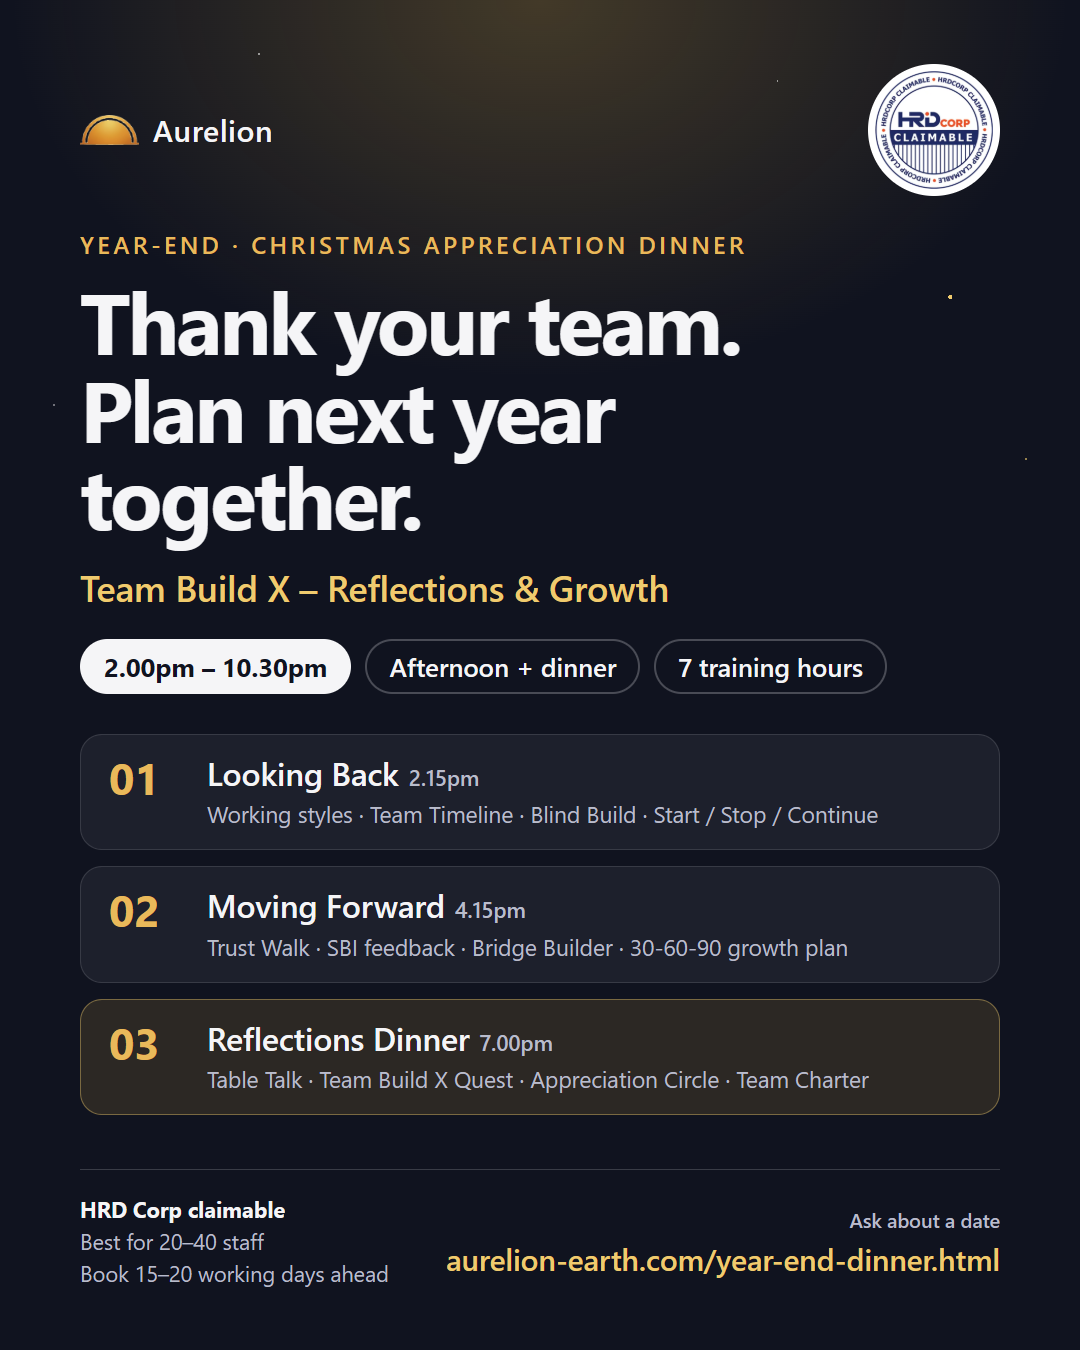
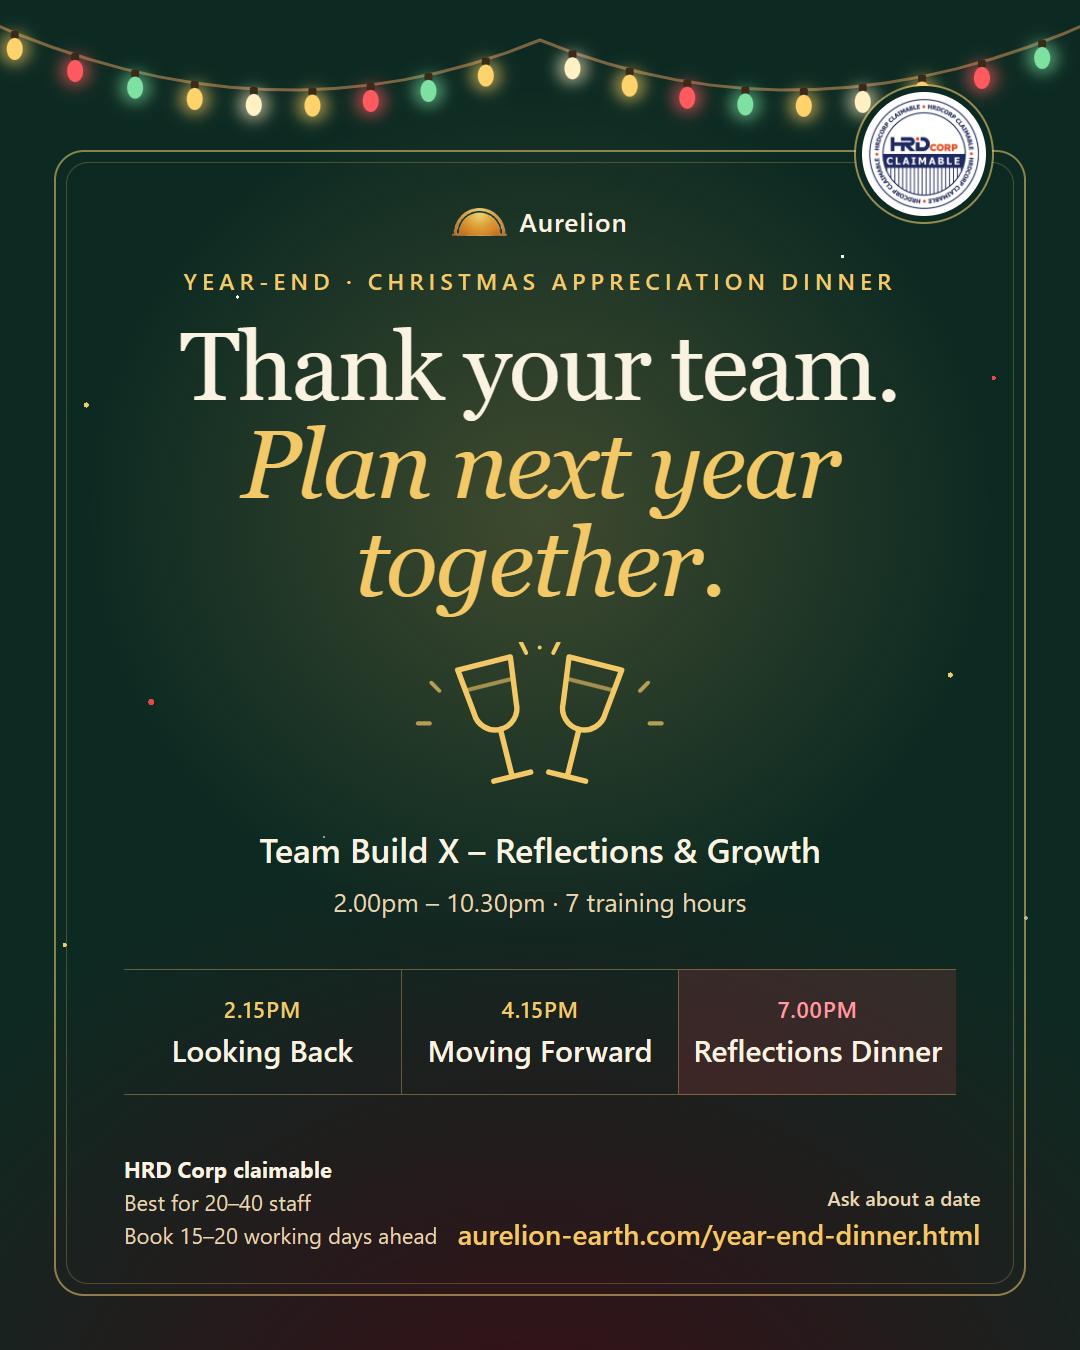
Year-end poster: festive dinner style (lights, green and gold, cheers) (#24)

diff --git a/assets/year-end-dinner-poster.html b/assets/year-end-dinner-poster.html
@@ -4,52 +4,80 @@
 <style>
 *{box-sizing:border-box;margin:0}
 html,body{width:1080px;height:1350px;overflow:hidden}
-body{font-family:"Segoe UI",-apple-system,Roboto,Arial,sans-serif;color:#f5f5f7;letter-spacing:-.01em;
-  background:radial-gradient(70% 40% at 50% 0%,rgba(212,168,67,.26),transparent 70%),#10131f;position:relative;padding:64px 80px 60px;display:flex;flex-direction:column}
+body{font-family:"Segoe UI",-apple-system,Roboto,Arial,sans-serif;color:#fbf3e2;position:relative;
+  background:radial-gradient(60% 45% at 50% 38%,rgba(240,190,90,.22),transparent 70%),radial-gradient(120% 80% at 50% 110%,#3a0d16,transparent 60%),#0d2a22}
+/* confetti + sparkles */
 body::before{content:"";position:absolute;inset:0;background:
-  radial-gradient(3px 3px at 10% 9%,#f0cb6e 50%,transparent 51%),radial-gradient(2px 2px at 24% 4%,#fff8 50%,transparent 51%),
-  radial-gradient(4px 4px at 88% 22%,#f0cb6e 50%,transparent 51%),radial-gradient(2px 2px at 72% 6%,#fff8 50%,transparent 51%),
-  radial-gradient(3px 3px at 95% 34%,#f0cb6e99 50%,transparent 51%),radial-gradient(2px 2px at 5% 30%,#fff6 50%,transparent 51%)}
-.top{display:flex;justify-content:space-between;align-items:center;position:relative}
-.brand{display:flex;align-items:center;gap:14px;font-size:30px;font-weight:600;letter-spacing:.02em}
-.brand img{height:30px}
-.badge{width:132px;height:132px;border-radius:50%;background:#fff;display:grid;place-items:center}
-.badge img{width:124px}
-.eyebrow{margin-top:32px;font-size:24px;font-weight:600;letter-spacing:.14em;text-transform:uppercase;color:#e9b95a}
-h1{margin-top:16px;font-size:86px;line-height:1.02;letter-spacing:-.035em;font-weight:700}
-.sub{margin-top:24px;font-size:36px;font-weight:600;color:#f0cb6e}
-.time{margin-top:28px;display:flex;gap:14px;flex-wrap:wrap}
-.time span{font-size:26px;font-weight:500;border:2px solid rgba(245,245,247,.25);border-radius:999px;padding:8px 22px}
-.time span:first-child{background:#f5f5f7;color:#10131f;border-color:#f5f5f7;font-weight:700}
-.mods{margin-top:40px;display:grid;gap:16px}
-.mod{display:grid;grid-template-columns:76px 1fr;gap:22px;align-items:start;background:rgba(245,245,247,.06);border:1px solid rgba(245,245,247,.12);border-radius:22px;padding:20px 28px}
-.mod .n{font-size:44px;font-weight:700;color:#e9b95a;line-height:1}
-.mod h2{font-size:32px;font-weight:600;line-height:1.1}
-.mod h2 small{font-size:22px;font-weight:500;color:#b9bccb;margin-left:10px}
-.mod p{margin-top:8px;font-size:23px;color:#b9bccb;line-height:1.35}
-.mod.d{background:rgba(212,168,67,.14);border-color:rgba(240,203,110,.4)}
-.foot{margin-top:auto;display:flex;justify-content:space-between;align-items:center;gap:24px;border-top:1px solid rgba(245,245,247,.18);padding-top:24px}
-.foot .k{white-space:nowrap;font-size:22px;color:#b9bccb;line-height:1.45}
-.foot .k b{color:#f5f5f7}
-.foot .url{white-space:nowrap;font-size:30px;font-weight:600;color:#f0cb6e;text-align:right}
-.foot .url small{display:block;font-size:20px;font-weight:500;color:#b9bccb;margin-bottom:6px}
+  radial-gradient(5px 5px at 8% 30%,#f0cb6e 50%,transparent 52%),radial-gradient(4px 4px at 92% 28%,#e8474f 50%,transparent 52%),
+  radial-gradient(6px 6px at 14% 52%,#e8474f 50%,transparent 52%),radial-gradient(5px 5px at 88% 50%,#f0cb6e 50%,transparent 52%),
+  radial-gradient(3px 3px at 22% 22%,#fff 50%,transparent 52%),radial-gradient(3px 3px at 78% 19%,#fff 50%,transparent 52%),
+  radial-gradient(4px 4px at 6% 70%,#f0cb6e 50%,transparent 52%),radial-gradient(4px 4px at 95% 68%,#fff9 50%,transparent 52%),
+  radial-gradient(3px 3px at 30% 62%,#fff8 50%,transparent 52%),radial-gradient(3px 3px at 70% 64%,#fff8 50%,transparent 52%)}
+.lights{position:absolute;top:0;left:0;width:1080px;height:170px}
+.frame{position:absolute;inset:150px 54px 54px;border:2px solid rgba(240,203,110,.55);border-radius:30px}
+.frame::after{content:"";position:absolute;inset:10px;border:1px solid rgba(240,203,110,.25);border-radius:22px}
+.in{position:absolute;inset:150px 54px 54px;padding:54px 70px 44px;display:flex;flex-direction:column;align-items:center;text-align:center}
+.badge{position:absolute;top:-58px;right:40px;width:124px;height:124px;border-radius:50%;background:#fff;display:grid;place-items:center;box-shadow:0 0 0 6px #0d2a22,0 0 0 8px rgba(240,203,110,.6)}
+.badge img{width:116px}
+.brand{display:flex;align-items:center;gap:12px;font-size:26px;font-weight:600;letter-spacing:.04em}
+.brand img{height:28px}
+.eyebrow{margin-top:26px;font-size:23px;font-weight:600;letter-spacing:.22em;text-transform:uppercase;color:#f0cb6e}
+h1{margin-top:22px;font-family:Georgia,"Times New Roman",serif;font-weight:400;font-size:96px;line-height:1.02;letter-spacing:-.02em}
+h1 em{display:block;color:#f3c867;font-style:italic}
+.cheers{margin-top:30px;height:160px}
+.sub{margin-top:24px;font-size:34px;font-weight:600}
+.time{margin-top:12px;font-size:26px;color:#e6d6b3}
+.run{margin-top:50px;display:flex;align-items:stretch;gap:0;width:100%}
+.run div{flex:1;padding:24px 10px;border-top:1px solid rgba(240,203,110,.35);border-bottom:1px solid rgba(240,203,110,.35)}
+.run div+div{border-left:1px solid rgba(240,203,110,.35)}
+.run b{display:block;font-size:22px;color:#f0cb6e;font-weight:600;letter-spacing:.04em}
+.run span{display:block;margin-top:6px;font-size:30px;font-weight:600}
+.run .d{background:rgba(232,71,79,.16)}
+.run .d b{color:#ff9aa0}
+.foot{margin-top:auto;width:100%;display:flex;justify-content:space-between;align-items:flex-end;gap:20px}
+.foot .k{text-align:left;white-space:nowrap;font-size:22px;color:#e6d6b3;line-height:1.5}
+.foot .k b{color:#fbf3e2}
+.foot .url{white-space:nowrap;text-align:right;font-size:28px;font-weight:600;color:#f3c867}
+.foot .url small{display:block;font-size:20px;font-weight:500;color:#e6d6b3;margin-bottom:4px}
 </style></head>
 <body>
-<div class="top">
-  <div class="brand"><img src="mark.png" alt="">Aurelion</div>
+<svg class="lights" viewBox="0 0 1080 170" aria-hidden="true">
+  <defs><filter id="g" x="-2" y="-2" width="5" height="5"><feGaussianBlur stdDeviation="7"/></filter></defs>
+  <path d="M-20 18 Q270 150 540 40 Q810 150 1100 18" fill="none" stroke="#7a6440" stroke-width="3"/>
+  <g id="b"></g>
+</svg>
+<div class="frame"></div>
+<div class="in">
   <div class="badge"><img src="hrd-claimable.png" alt="HRD Corp claimable"></div>
+  <div class="brand"><img src="mark.png" alt="">Aurelion</div>
+  <p class="eyebrow">Year-end · Christmas appreciation dinner</p>
+  <h1>Thank your team.<em>Plan next year together.</em></h1>
+  <svg class="cheers" viewBox="0 0 240 118" aria-hidden="true" fill="none" stroke="#f3c867" stroke-width="4" stroke-linecap="round" stroke-linejoin="round">
+    <g transform="rotate(-14 92 60)"><path d="M70 14h40l-4 34a16 16 0 0 1-32 0z"/><path d="M90 64v34M76 100h28"/><path d="M73 30h34" stroke-width="3" opacity=".6"/></g>
+    <g transform="rotate(14 148 60)"><path d="M130 14h40l-4 34a16 16 0 0 1-32 0z"/><path d="M150 64v34M136 100h28"/><path d="M133 30h34" stroke-width="3" opacity=".6"/></g>
+    <path d="M120 4v-0M106 0l4 8M134 0l-4 8" stroke-width="3"/>
+    <path d="M40 30l6 6M200 30l-6 6M30 60h9M210 60h-9" stroke-width="3" opacity=".7"/>
+  </svg>
+  <p class="sub">Team Build X – Reflections &amp; Growth</p>
+  <p class="time">2.00pm – 10.30pm · 7 training hours</p>
+  <div class="run">
+    <div><b>2.15PM</b><span>Looking Back</span></div>
+    <div><b>4.15PM</b><span>Moving Forward</span></div>
+    <div class="d"><b>7.00PM</b><span>Reflections Dinner</span></div>
+  </div>
+  <div class="foot">
+    <div class="k"><b>HRD Corp claimable</b><br>Best for 20–40 staff<br>Book 15–20 working days ahead</div>
+    <div class="url"><small>Ask about a date</small>aurelion-earth.com/year-end-dinner.html</div>
+  </div>
 </div>
-<p class="eyebrow">Year-end · Christmas appreciation dinner</p>
-<h1>Thank your team.<br>Plan next year<br>together.</h1>
-<p class="sub">Team Build X – Reflections &amp; Growth</p>
-<div class="time"><span>2.00pm – 10.30pm</span><span>Afternoon + dinner</span><span>7 training hours</span></div>
-<div class="mods">
-  <div class="mod"><span class="n">01</span><div><h2>Looking Back<small>2.15pm</small></h2><p>Working styles · Team Timeline · Blind Build · Start / Stop / Continue</p></div></div>
-  <div class="mod"><span class="n">02</span><div><h2>Moving Forward<small>4.15pm</small></h2><p>Trust Walk · SBI feedback · Bridge Builder · 30-60-90 growth plan</p></div></div>
-  <div class="mod d"><span class="n">03</span><div><h2>Reflections Dinner<small>7.00pm</small></h2><p>Table Talk · Team Build X Quest · Appreciation Circle · Team Charter</p></div></div>
-</div>
-<div class="foot">
-  <div class="k"><b>HRD Corp claimable</b><br>Best for 20–40 staff<br>Book 15–20 working days ahead</div>
-  <div class="url"><small>Ask about a date</small>aurelion-earth.com/year-end-dinner.html</div>
-</div>
+<script>
+// bulbs along the wire: two quadratic curves
+const g=document.getElementById('b'),cols=['#ffd36b','#ff5a5f','#7ee0a1','#ffd36b','#fff1c4'];
+function q(p0,p1,p2,t){return (1-t)*(1-t)*p0+2*(1-t)*t*p1+t*t*p2}
+let i=0;
+[[-20,18,270,150,540,40],[540,40,810,150,1100,18]].forEach(([x0,y0,x1,y1,x2,y2])=>{
+  for(let t=.06;t<1;t+=.105){const x=q(x0,x1,x2,t),y=q(y0,y1,y2,t),c=cols[i++%cols.length];
+    g.insertAdjacentHTML('beforeend',`<circle cx="${x}" cy="${y+16}" r="16" fill="${c}" opacity=".55" filter="url(#g)"/><rect x="${x-4}" y="${y-2}" width="8" height="8" rx="2" fill="#3a2a18"/><ellipse cx="${x}" cy="${y+16}" rx="8" ry="11" fill="${c}"/>`)}
+});
+</script>
 </body></html>
